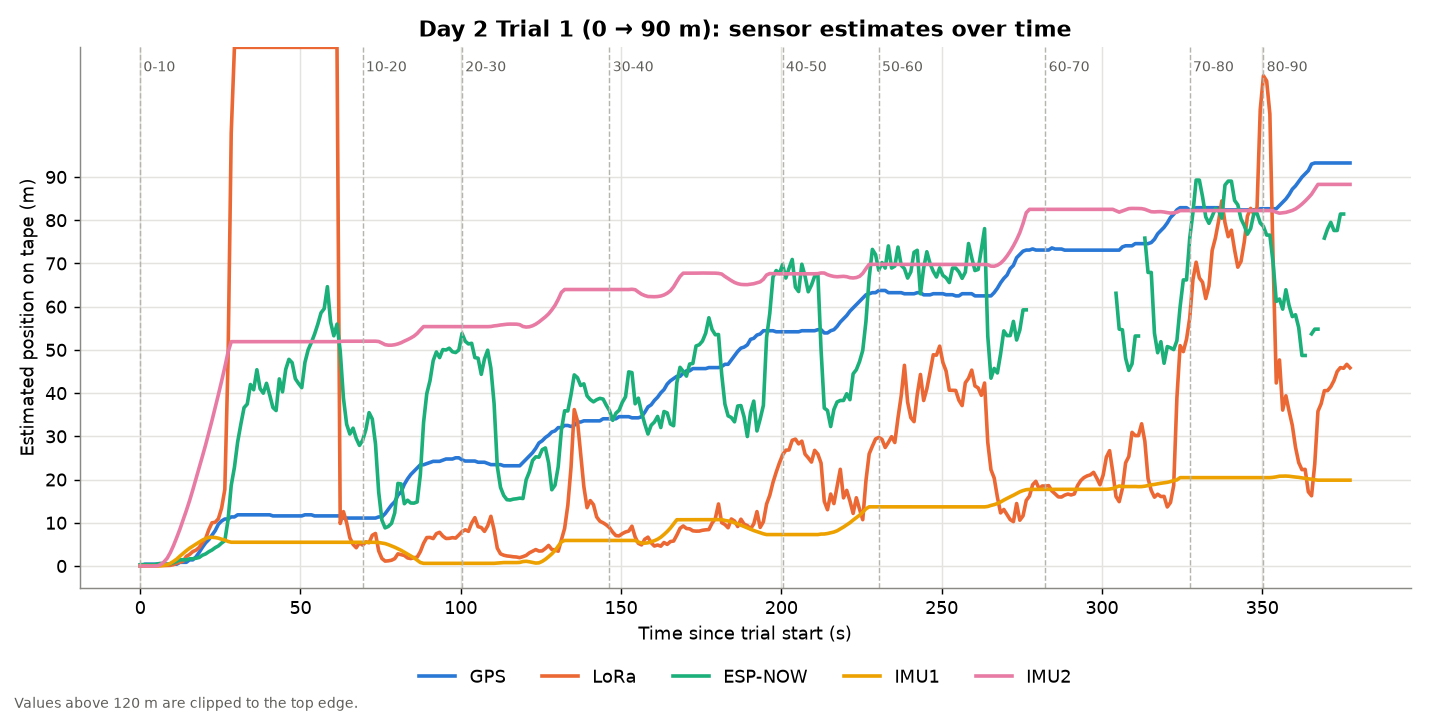
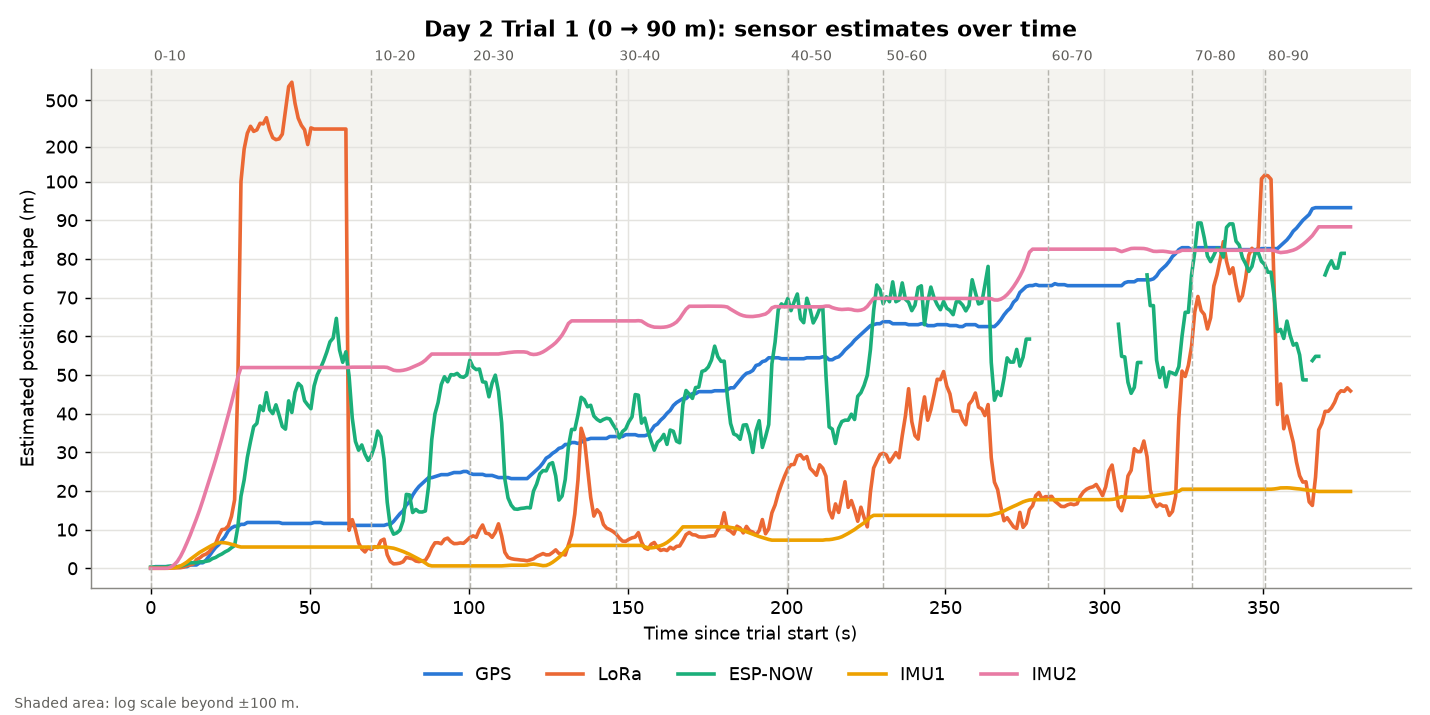
Show values beyond 100 m on a log scale instead of clipping them
Claude-Session: https://claude.ai/code/session_01JDHCLu7DihRZ3TzTRGNBBv

diff --git a/analysis/plot_field_tests.py b/analysis/plot_field_tests.py
@@ -18,7 +18,24 @@ os.makedirs(OUT, exist_ok=True)
 TRIALS = {"Day 1 ESP-NOW walk": ("Day 1 ESP-NOW walk", False), "Day 2 Trial 1": ("Day 2 Trial 1", False),
           "Day 2 Trial 3": ("Day 2 Trial 3", False), "Day 2 Trial 4": ("Day 2 Trial 4", True),
           "Day 2 Return run": ("Day 2 Return run", True)}
-Y_MAX = 120                                 # radio estimates spike into the 1000s; clip so the tape range stays readable
+LIN = 100                                   # linear scale up to 100 m, log scale beyond (radio/IMU estimates reach the 1000s)
+
+
+def tape_axis(ax, values, compact=False):
+    """Linear 0-100 m so the tape range stays readable, log above/below so large errors stay visible."""
+    v = pd.concat(values).dropna()
+    lo, hi = min(-5, v.min() * 1.3), max(100, v.max() * 1.3)
+    ax.set_yscale("symlog", linthresh=LIN, linscale=3)
+    ax.set_ylim(lo, hi)
+    neg = (-10000, -1000, -100, -50) if compact else (-5000, -2000, -1000, -500, -200, -100, -50)
+    pos = (100, 1000, 10000) if compact else (100, 200, 500, 1000, 2000, 5000, 10000)
+    ticks = [t for t in neg if t > lo] + list(range(0, 100, 20 if compact else 10)) + [t for t in pos if t < hi]
+    ax.set_yticks(ticks, [str(t) for t in ticks])
+    ax.yaxis.set_minor_locator(matplotlib.ticker.NullLocator())
+    if hi > LIN:
+        ax.axhspan(LIN, hi, color="#f4f3ef", zorder=0)
+    if lo < -LIN:
+        ax.axhspan(lo, -LIN, color="#f4f3ef", zorder=0)
 
 # sensor -> (column, colour). GPS/IMU are distance travelled since zero; radios are distance to the base node at 0 m.
 SENSORS = {
@@ -45,23 +62,24 @@ for tab, (label, reverse) in TRIALS.items():
     breaks = df.loc[gap, ["Time (s)"]] - 0.5
     df = pd.concat([df, breaks]).sort_values("Time (s)", kind="stable")
     fig, ax = plt.subplots(figsize=(11, 5.5))
+    plotted = []
     for name, (col, color) in SENSORS.items():
         if col not in df:
             continue
         v = df[col]
         if reverse and name in ("GPS", "IMU1", "IMU2"):
             v = 90 - v
-        ax.plot(df["Time (s)"], v.clip(upper=Y_MAX), color=color, lw=2, label=name)
+        ax.plot(df["Time (s)"], v, color=color, lw=2, label=name)
+        plotted.append(v)
+    tape_axis(ax, plotted)
     for seg, t in df.groupby("Segment (m)", sort=False)["Time (s)"].first().items():
         ax.axvline(t, color="#b5b4ad", lw=0.8, ls="--")
-        ax.text(t + 1, Y_MAX - 3, seg, fontsize=8, color="#5f5e5a", va="top")
-    ax.set_ylim(-5, Y_MAX)
-    ax.set_yticks(range(0, 100, 10))
+        ax.text(t + 1, 1.01, seg, fontsize=8, color="#5f5e5a", va="bottom", transform=ax.get_xaxis_transform())
     ax.set_xlabel("Time since trial start (s)")
     ax.set_ylabel("Estimated position on tape (m)")
-    ax.set_title(f"{label} ({'90 → 0' if reverse else '0 → 90'} m): sensor estimates over time")
+    ax.set_title(f"{label} ({'90 → 0' if reverse else '0 → 90'} m): sensor estimates over time", pad=18)
     ax.legend(ncol=5, loc="upper center", bbox_to_anchor=(0.5, -0.12), frameon=False)
-    fig.text(0.01, 0.01, f"Values above {Y_MAX} m are clipped to the top edge.", fontsize=8, color="#5f5e5a")
+    fig.text(0.01, 0.01, f"Shaded area: log scale beyond ±{LIN} m.", fontsize=8, color="#5f5e5a")
     fig.tight_layout()
     fig.savefig(os.path.join(OUT, f"{tab.replace(' ', '_')}_timeseries.png"))
     plt.close(fig)
@@ -78,16 +96,19 @@ for ax, name in zip(axes, SENSORS):
         tab = [k for k in TRIALS if k.endswith(trial)][0]
         e = e.dropna(subset=[f"{name} est position (m)"]).sort_values("True position (m)")
         if len(e):
-            ax.plot(e["True position (m)"], e[f"{name} est position (m)"].clip(upper=Y_MAX), "o-",
+            ax.plot(e["True position (m)"], e[f"{name} est position (m)"], "o-",
                     color=TRIAL_COLORS[tab], lw=1.5, ms=5, label=TRIALS[tab][0])
     ax.set_title(name)
     ax.set_xlabel("True position (m)")
     ax.set_xticks(range(0, 100, 30))
-    ax.set_ylim(-5, Y_MAX)
+cols = [f"{n} est position (m)" for n in SENSORS]
+for ax in axes:
+    tape_axis(ax, [summ[c] for c in cols], compact=True)
 axes[0].set_ylabel("Estimated position (m)")
 handles, labels = axes[2].get_legend_handles_labels()
 fig.legend(handles, labels, ncol=6, loc="lower center", frameon=False)
 fig.suptitle("Estimated vs true position at the end of each 10 m segment (all trials)", fontweight="bold")
+fig.text(0.01, 0.01, f"Shaded area: log scale beyond ±{LIN} m.", fontsize=8, color="#5f5e5a")
 fig.tight_layout(rect=(0, 0.07, 1, 1))
 fig.savefig(os.path.join(OUT, "all_trials_estimated_vs_true.png"))
 plt.close(fig)
